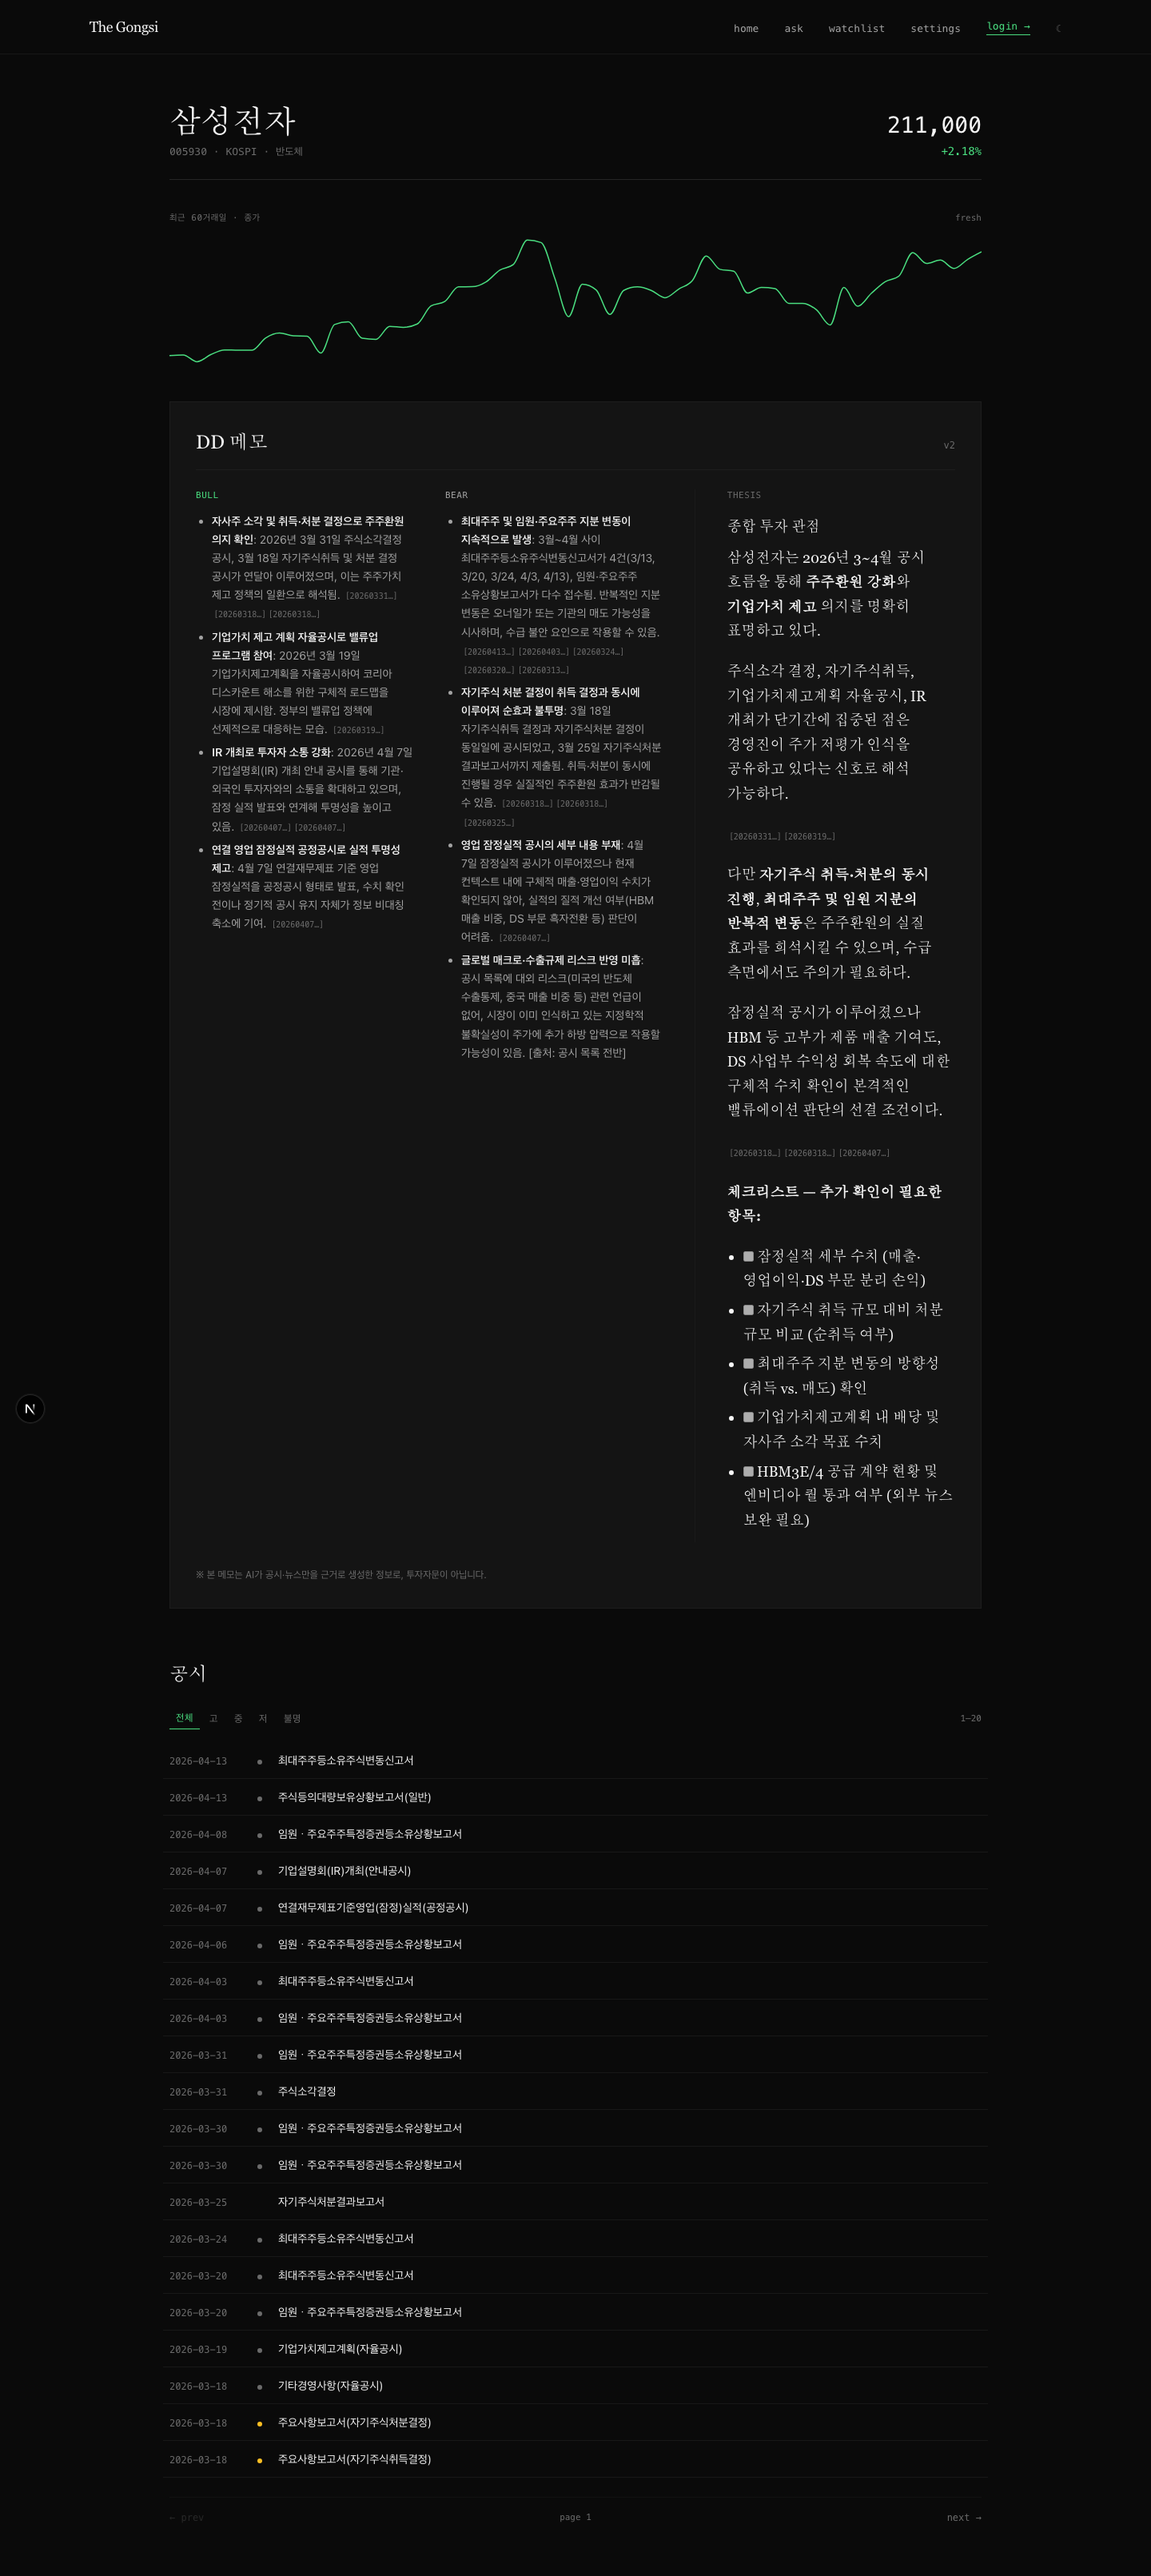
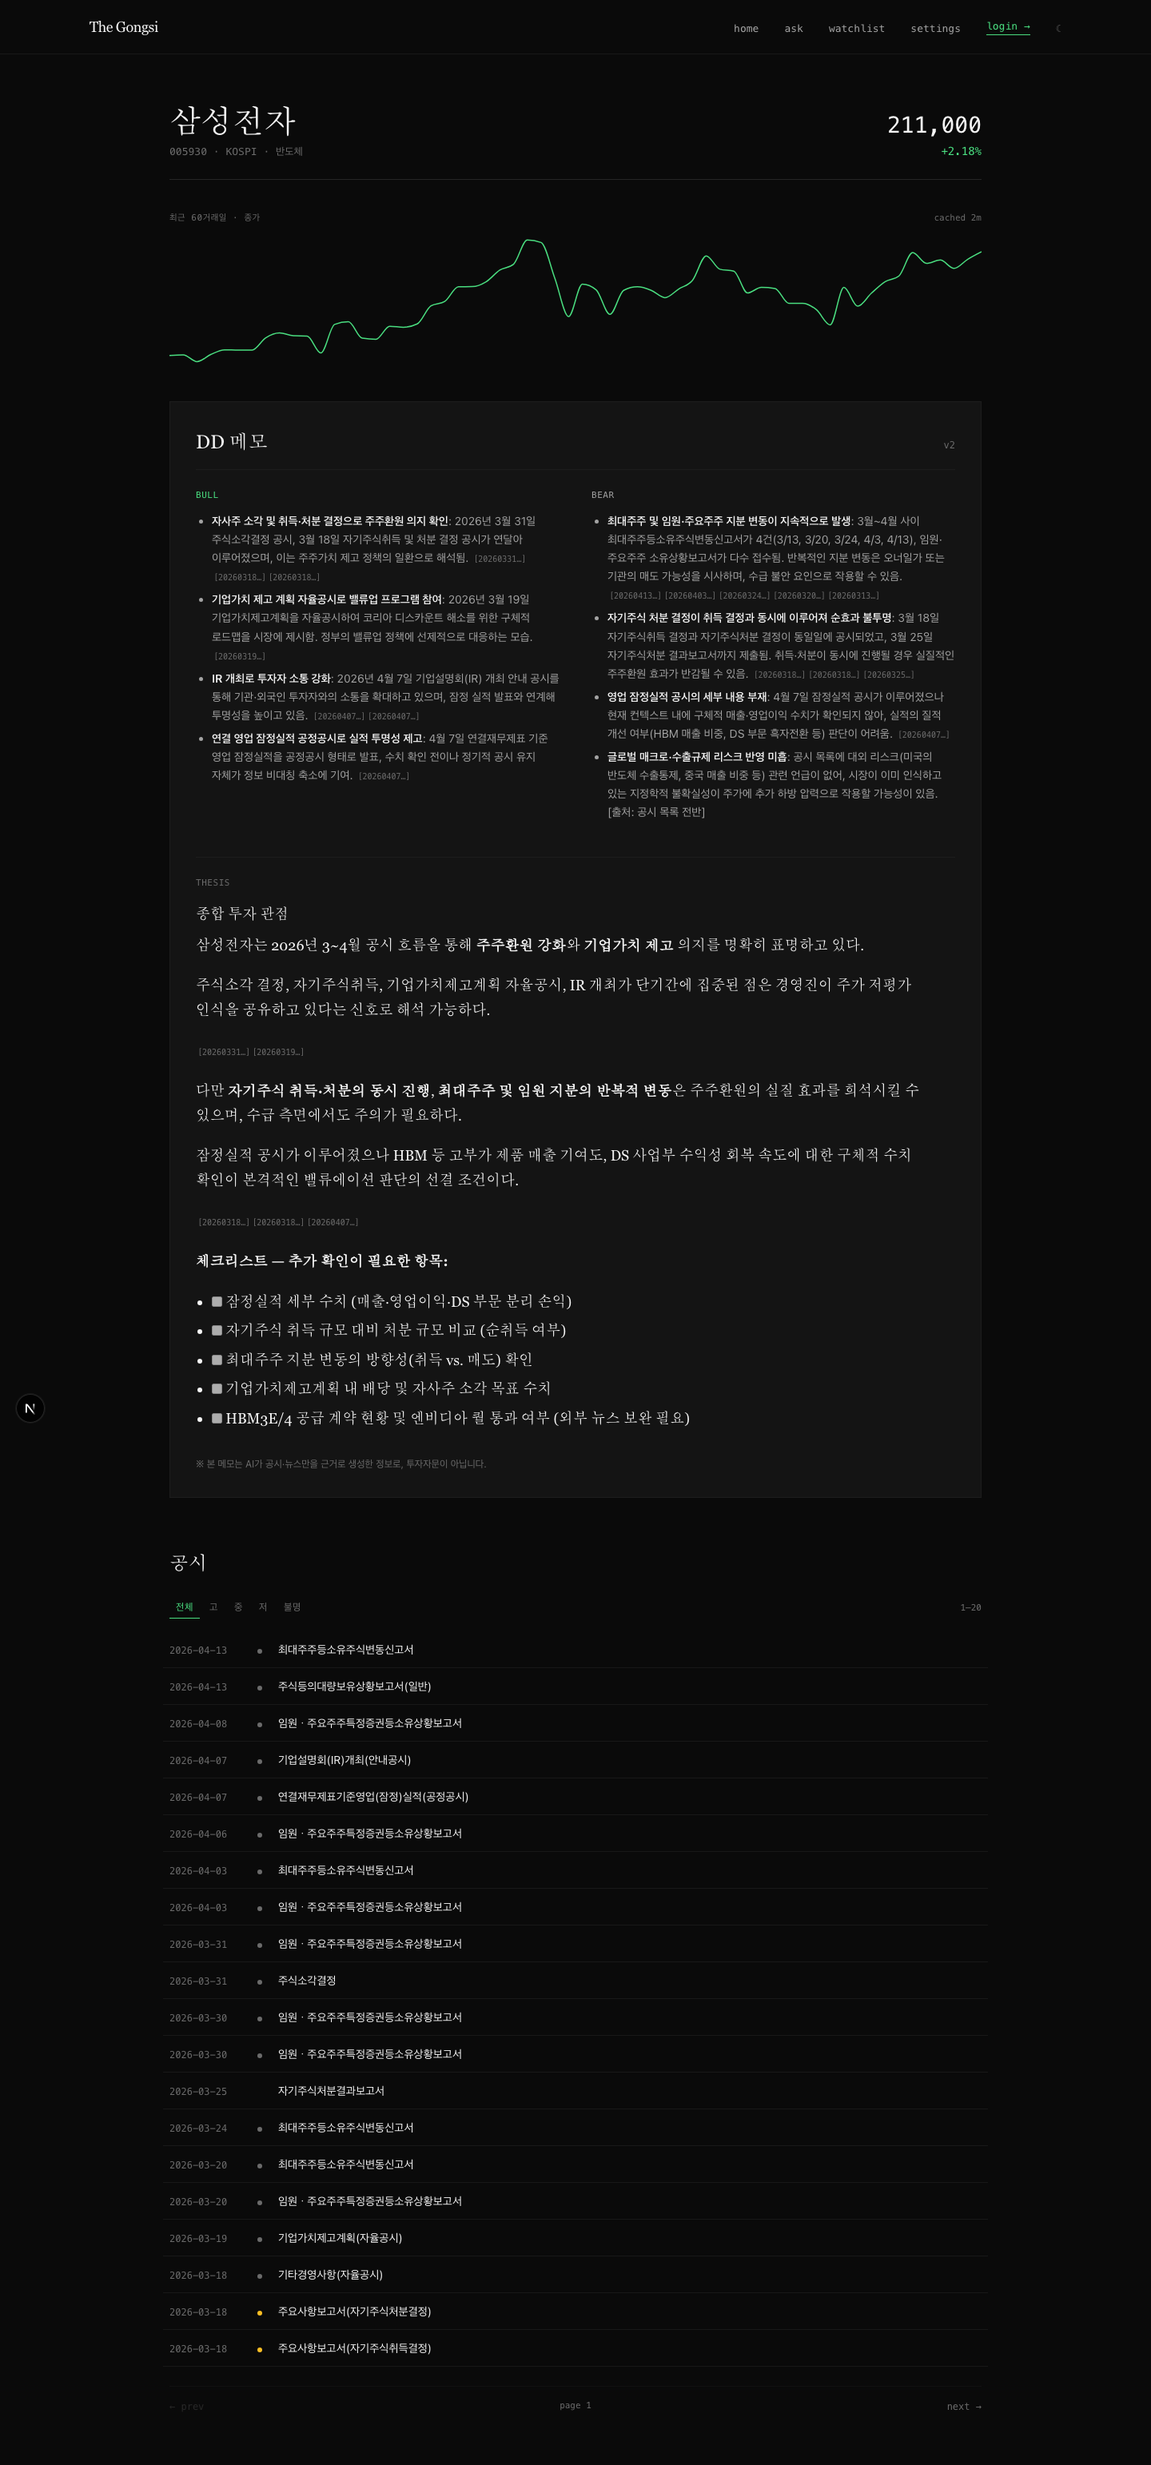
design(memo): BULL|BEAR 상단 2-col + THESIS 하단 전체너비
사용자 피드백: 3-col 여전히 세로 김. 박스는 전체 너비 유지하되 내부는
기존 2-col(BULL|BEAR) + THESIS 하단 구조로.

이점:
- BULL/BEAR는 1080/2 = 520px씩 (기존 420px 대비 ↑)
- THESIS 1080px 전체 너비 → 긴 문단도 2-3줄에 끝남
- 결론-먼저(conclusion-first) 원칙 유지하면서 가독성↑

diff --git a/frontend/src/components/DDMemoCard.tsx b/frontend/src/components/DDMemoCard.tsx
@@ -62,15 +62,15 @@ export function DDMemoCard({ memo }: { memo: DDMemo }) {
         <p className="mono text-[12px] text-fg-3">v{memo.version}</p>
       </header>
 
-      {/* 3-col 가로 레이아웃: BULL | BEAR | THESIS — 편집자 tabloid 스타일, 한눈 비교 */}
-      <div className="grid grid-cols-1 lg:grid-cols-[1fr_1fr_1.2fr] gap-8 lg:gap-10">
+      {/* BULL | BEAR 2-col 상단 + THESIS 전체 너비 하단 (편집자 칼럼 + 결론) */}
+      <div className="grid grid-cols-1 md:grid-cols-2 gap-10 mb-8">
         <SideBlock title="BULL" body={stripInlineDisclaimer(memo.bull)} tone="accent" />
         <SideBlock title="BEAR" body={stripInlineDisclaimer(memo.bear)} tone="down" />
-        <div className="lg:border-l lg:border-border/40 lg:pl-10">
-          <h3 className="mono text-[11px] tracking-wider uppercase mb-3 text-fg-3">THESIS</h3>
-          <Markdown content={addBreathingRoom(stripInlineDisclaimer(memo.thesis))} tone="serif" />
-        </div>
       </div>
+      <section className="border-t border-border/50 pt-6">
+        <h3 className="mono text-[11px] tracking-wider uppercase mb-3 text-fg-3">THESIS</h3>
+        <Markdown content={addBreathingRoom(stripInlineDisclaimer(memo.thesis))} tone="serif" />
+      </section>
 
       <p className="mt-8 text-[12px] text-fg-3">
         ※ 본 메모는 AI가 공시·뉴스만을 근거로 생성한 정보로, 투자자문이 아닙니다.
